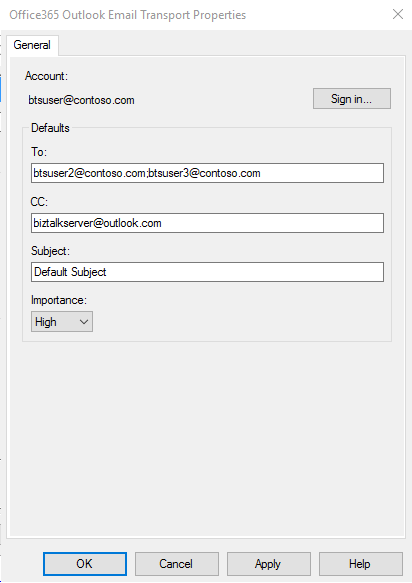
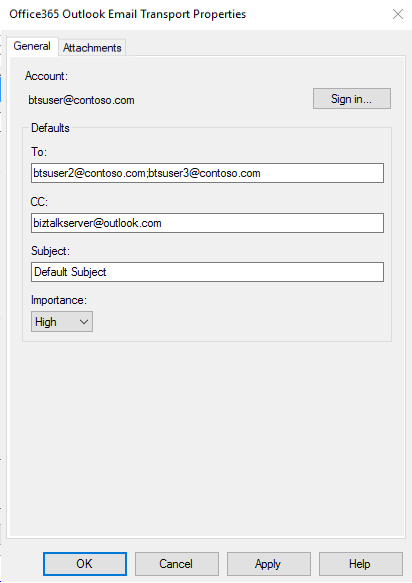
Updating Office365 adapters documentation for BizTalk 2020. (#17)

Changed region(s): [[0.0291, 0.0, 0.6117, 0.0309], [0.1456, 0.0617, 0.2913, 0.0926], [0.0291, 0.0617, 0.1165, 0.0926]]

diff --git a/biztalk/core/office365-mail-adapter.md b/biztalk/core/office365-mail-adapter.md
@@ -31,7 +31,7 @@ The Office 365 Outlook Email Adapter allows you to send and receive mails from y
 
     ![Office 365 Mail permissions](../core/media/office365-mail-permissions.png)
 
-5. Configure your Office 365 Outlook Email default properties:
+5. Configure your Office 365 Outlook Email **General** properties:
 
     |Use this|To do this|  
     |---|---|  
@@ -44,12 +44,24 @@ The Office 365 Outlook Email Adapter allows you to send and receive mails from y
 
     ![Endpoint properties](../core/media/office365-mail-send-properties.png)
 
-6. Select **Ok** to save your changes.
+6. Configure your Office 365 Outlook Email **Attachments** properties:
+
+    The body of the email being sent corresponds to the body part of the BizTalk message. To add attachments to the email, do the following:
+
+    |Use this|To do this|  
+    | --- | --- |  
+    | **Attach&nbsp;BizTalk&nbsp;message&nbsp;parts** | If checked, BizTalk message non-body parts will be added as attachments to the email sent.|
+    | **Files** | Specifies that a file or files will be attached to the e-mail message and the full path to the file or files. The specified path or paths must be accessible to the host for the adapter at run time. Default value: empty. |
+
+    After selecting some files, the attachments properties look similar to the following:
+
+    ![Endpoint properties](../core/media/office365-mail-send-attachments-properties.png)
+
+7. Select **Ok** to save your changes.
 
 ### Important details
 
-1. You can only send plain text messages using the send adapter.
-2. The default properties may also be updated using promoted properties:
+1. The default properties may also be updated using promoted properties:
 
 |Property|Promoted property|
 |---|---|
@@ -57,6 +69,12 @@ The Office 365 Outlook Email Adapter allows you to send and receive mails from y
 | **CC** | OfficeMail.CC |
 | **Subject** | OfficeMail.Subject |
 | **Importance** | OfficeMail.Importance |
+
+2. The ContentType property of the BizTalk message body part can be set to "Text" or "Html" to indicate the type of the email body. By default, it will be "Text".
+
+3. When parts of a multi-part BizTalk message are attached, the ContentType property of a part, if provided, is used as the MIME type for the attachment created. By default, the MIME type of the attachment is set to "application/octet-stream".
+
+3. When attaching files, the MIME type of the attachment is determined from the filename extension. The default MIME type is "application/octet-stream".
 
 ### Test your send port
 
@@ -76,7 +94,7 @@ You can use a simple File receive port and location to send messages to your Off
     ```
 
 4. Start the File receive location and the Office 365 Outlook Email adapter send port.
-5. Copy **Office365Mail.xml** sample message into the receive folder (C:\\Temp\\In\\). The send port sends the XML file as mail body to your Office 365 Outlook Email.
+5. Copy **Office365Mail.xml** sample message into the receive folder (C:\\Temp\\In\\). The send port sends the XML file as mail body to your Office 365 Outlook Email. Files specified in the Attachments tab of the port configuration are attached to the email.
 
 ## Receive email using a receive port
 
@@ -94,20 +112,32 @@ You can use a simple File receive port and location to send messages to your Off
 
     ![Office 365 Mail permissions](../core/media/office365-mail-permissions.png)
 
-6. Configure the **Endpoint** properties:
+6. Configure the endpoint **General** properties:
 
     |Use this|To do this|  
     |---|---|  
-    | **Folder** | Select the folder to get email. The default folder is Inbox. Note that folders aren’t recursive in nature. For example, email from subfolders aren’t retreived. |
-    | **Start from** | Enter how email is received from Office 365. This value indicates receivedTimeStamp of an email in Office 365 Outlook. Email more recent than the entered values are received.  |
-    | **Unread mails only** | Check this to read only unread email. Keep it unchecked to read all email. |
-    | **Post Action** | Select a post action to be performed after an email is read. **None** is the default, and does nothing after email is received by BizTalk. **Mark as read** implies, that after an email is received by BizTalk, the email in your mailbox is marked as read. **Delete** implies, that after an email is received by BizTalk, the email in your mailbox is deleted. Post actions are performed on a best-effort basis.|
+    | **Folder** | Select the folder to get email. The default folder is Inbox. Note that folders aren’t recursive in nature. For example, email from subfolders are not retrieved. |
+    | **Start&nbsp;from** | Enter how email is received from Office 365. This value indicates receivedTimeStamp of an email in Office 365 Outlook. Email more recent than the entered values are received.  |
+    | **Unread&nbsp;mails&nbsp;only** | Check this to read only unread email. Keep it unchecked to read all email. |
+    | **Post&nbsp;Action** | Select a post action to be performed after an email is read. **None** is the default, and does nothing after email is received by BizTalk. **Mark&nbsp;as&nbsp;read** implies, that after an email is received by BizTalk, the email in your mailbox is marked as read. **Delete** implies, that after an email is received by BizTalk, the email in your mailbox is deleted. Post actions are performed on a best-effort basis.|
 
     When finished, your properties look similar to the following:
 
     ![Endpoint properties](../core/media/office365-mail-receive-properties.png)
 
-7. Select **Ok** to save your changes.
+7. Configure the endpoint **Payload** properties:
+
+    |Use this|To do this|  
+    |---|---|  
+    | **Deliver&nbsp;MIME** | Select this to save the MIME representation of an email. The MIME content will contain email body and all attachments.|
+    | **Process&nbsp;content** | Select this to save the email body. It is selected by default. The content type of the email body will be saved in the ContentType property of the created BizTalk message. |
+    | **Include&nbsp;attachments** | Check this to save email attachments as parts of the BizTalk message. It is unchecked by default. Each BizTalk message part has the ContentType property set to the MIME type of the attachment. Attachments that are Outlook items (emails, calendar events, contacts) are saved in their MIME representation.|
+   
+    When finished, your properties look similar to the following:
+
+    ![Endpoint properties](../core/media/office365-mail-receive-payload-properties.png)
+
+8. Select **Ok** to save your changes.
 
 ### Test your receive settings
 
@@ -130,8 +160,5 @@ The following properties from the Receive Pipeline are promoted by default:
 | **SenderAddress** | OfficeMail.SenderAddress |
 | **HasAttachments**| OfficeMail.HasAttachments |
 
-> [!NOTE]
-> Only the body content of the Email is passed through to the message.
-
 ## Next steps
-See all the [Office 365 adapters](office365-adapters.md), or install [Feature Pack 3](https://aka.ms/bts2016fp3).
+See all the [Office 365 adapters](office365-adapters.md).

diff --git a/biztalk/core/office365-contact-adapter.md b/biztalk/core/office365-contact-adapter.md
@@ -115,4 +115,4 @@ You can use a simple File receive port and location to create an event on your O
 5. Copy **Office365Contact.xml** sample message into the receive folder (C:\\Temp\\In\\). The send port creates a contact in your Office 365 Outlook account based on the xml.
 
 ## Next steps
-See all the [Office 365 adapters](office365-adapters.md), or install [Feature Pack 3](https://aka.ms/bts2016fp3).
+See all the [Office 365 adapters](office365-adapters.md).

diff --git a/biztalk/core/office365-calendar-adapter.md b/biztalk/core/office365-calendar-adapter.md
@@ -242,4 +242,4 @@ div.WordSection1
 ```
 
 ## Next steps
-See all the [Office 365 adapters](office365-adapters.md), or install [Feature Pack 3](https://aka.ms/bts2016fp3).
+See all the [Office 365 adapters](office365-adapters.md).
